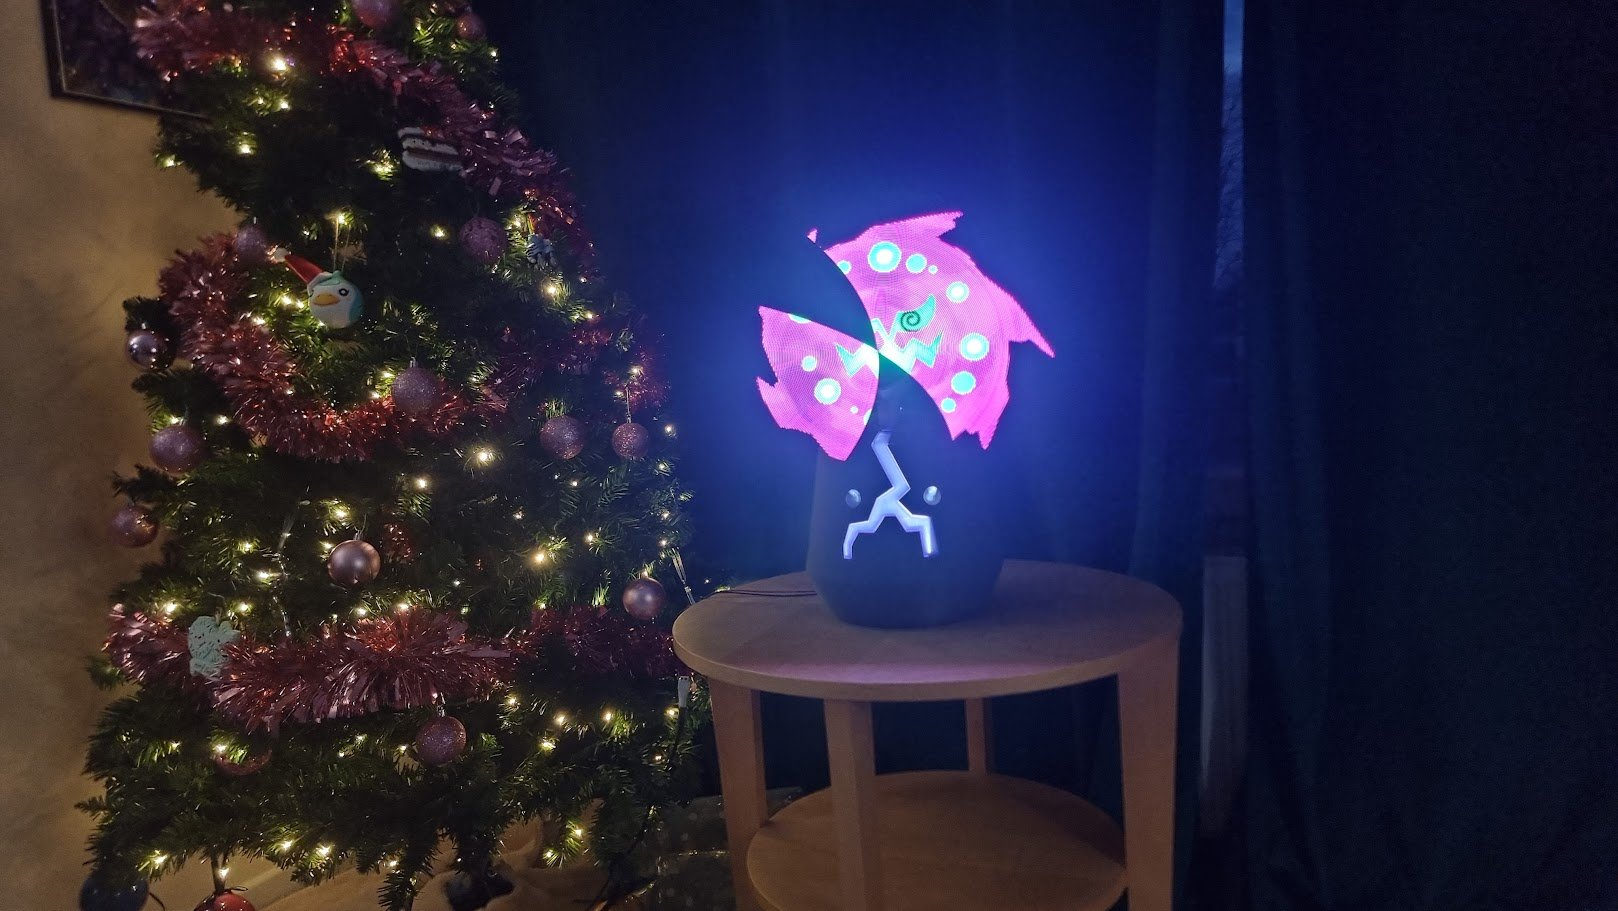
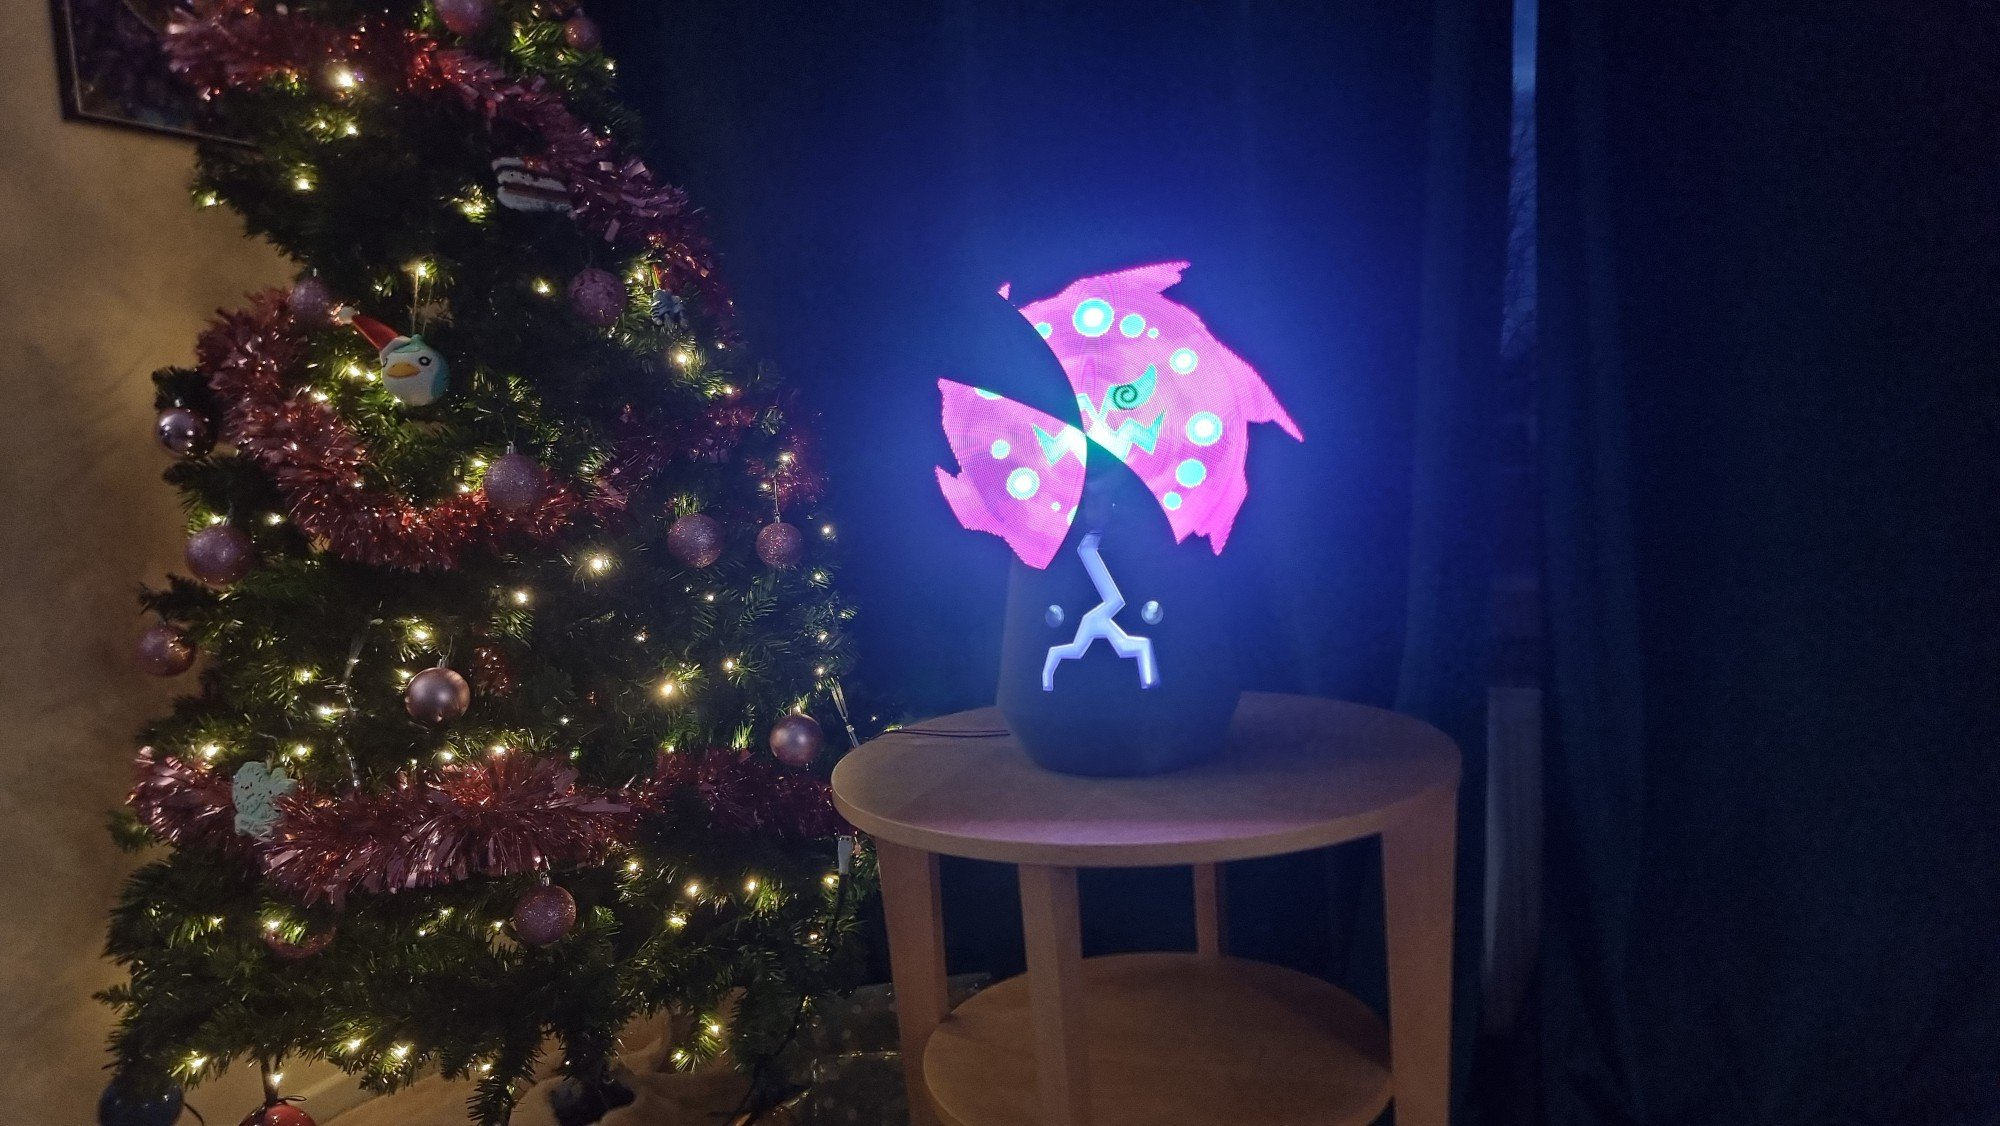
Spiritomb: higher-res gallery photos plus a fourth shot
Claude-Session: https://claude.ai/code/session_018hybDWibtvJXgG4KBuP4V9

diff --git a/projects/spiritomb/index.html b/projects/spiritomb/index.html
@@ -108,6 +108,10 @@
                 <img src="../../images/projects/spiritomb/gallery-3.jpg" alt="Giant Spiritomb build, gallery image 3" loading="lazy" onerror="this.remove()">
             </div>
 
+            <div class="project__media" data-initial="S">
+                <img src="../../images/projects/spiritomb/gallery-4.jpg" alt="Giant Spiritomb build, gallery image 4" loading="lazy" onerror="this.remove()">
+            </div>
+
         </div> <!-- end gallery -->
 
     </main>
